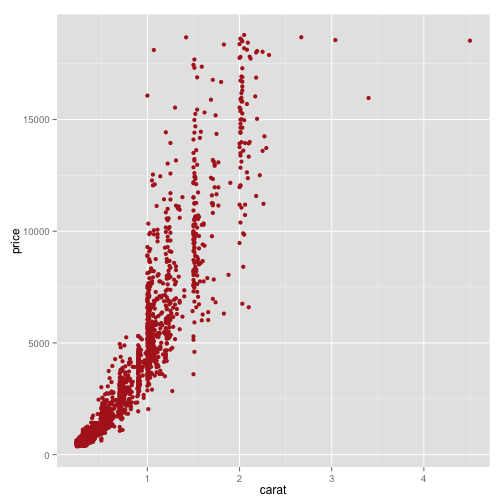
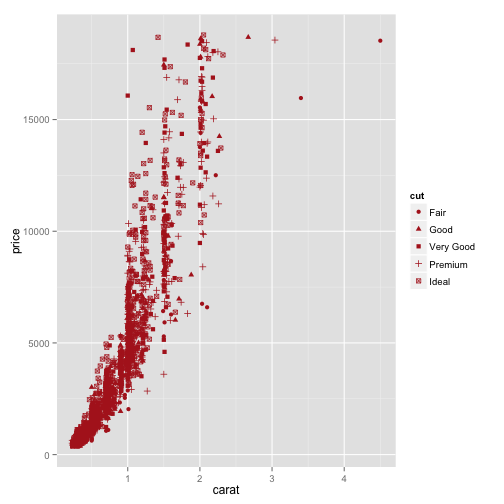
revise

diff --git a/lectures/01/index.html b/lectures/01/index.html
@@ -556,7 +556,7 @@ Narrative network of US. 2012.</p>
   </hgroup>
   <article data-timings="">
     <ul>
-<li>Embedded system is everywhere (Check RPi)</li>
+<li>嵌入裝置與雲端伺服器工作的必須 (Check Raspberry Pi/Amazon EC2)</li>
 <li>可以簡單解決的，就不要用複雜的方式。</li>
 </ul>
 
@@ -622,7 +622,7 @@ wc -l stmtn10-trimmed.txt
     <h2>資料科學實作</h2>
   </hgroup>
   <article data-timings="">
-    <p>想像一個場景：妳的公司開發了一種智慧型香水。作為一個 Data Scientist，妳要面對的資料類型：</p>
+    <p>想像一個場景：妳的公司開發了一種智慧型 XX。作為一個 Data Scientist，妳要面對的資料類型：</p>
 
 <ul>
 <li>工廠感測器 (sensors) ／銷售／實驗室產生的數值資料 (numeric data)</li>
@@ -652,7 +652,18 @@ wc -l stmtn10-trimmed.txt
 
 <slide class="" id="slide-38" style="background:;">
   <hgroup>
-    <h2>香水評論</h2>
+    <h3>先提醒：作圖比較觀察很重要</h3>
+  </hgroup>
+  <article data-timings="">
+    <p><img src="assets/fig/unnamed-chunk-1-1.png" alt="plot of chunk unnamed-chunk-1"> </p>
+
+  </article>
+  <!-- Presenter Notes -->
+</slide>
+
+<slide class="" id="slide-39" style="background:;">
+  <hgroup>
+    <h2>評論樣本觀察</h2>
   </hgroup>
   <article data-timings="">
     <pre><code>&gt; wget http://www.sensorywithr.org/wp-content/uploads/2014/06/perfumes_comments.csv
@@ -674,27 +685,34 @@ summary(comments)
   <!-- Presenter Notes -->
 </slide>
 
-<slide class="" id="slide-39" style="background:;">
+<slide class="" id="slide-40" style="background:;">
+  <hgroup>
+    <h2>進一步資料探索也取決於動機或假設是什麼</h2>
+  </hgroup>
   <article data-timings="">
     <pre><code class="r">library(FactoMineR)
 res.textual &lt;- textual(comments, num.text = 3, contingence.by = 1, sep.word = &quot;;&quot;)
 names(res.textual)
 res.textual$cont.table[,1:10]
+apply(res.textual$cont.table[,1:10], MARGIN = 2, FUN = sum)
 </code></pre>
 
   </article>
   <!-- Presenter Notes -->
 </slide>
 
-<slide class="" id="slide-40" style="background:;">
+<slide class="" id="slide-41" style="background:;">
+  <hgroup>
+    <h2>&quot;Social Listening&quot;</h2>
+  </hgroup>
   <article data-timings="">
-    <p><img src="assets/fig/unnamed-chunk-3-1.png" alt="plot of chunk unnamed-chunk-3"> </p>
+    <p><code>twitteR</code> demo</p>
 
   </article>
   <!-- Presenter Notes -->
 </slide>
 
-<slide class="" id="slide-41" style="background:;">
+<slide class="" id="slide-42" style="background:;">
   <hgroup>
     <h2>思考題</h2>
   </hgroup>
@@ -728,14 +746,15 @@ res.textual$cont.table[,1:10]
   <!-- Presenter Notes -->
 </slide>
 
-<slide class="" id="slide-42" style="background:;">
+<slide class="" id="slide-43" style="background:;">
   <hgroup>
     <h2>作業 (20150924)</h2>
   </hgroup>
   <article data-timings="">
     <ol>
-<li>from TA</li>
-<li>最好的分組方法（數學，遐想皆可）</li>
+<li>邊讀邊做 Linux tutorials (放在 CEIBA/課程網頁)</li>
+<li>TA 出的作業</li>
+<li>(bonus: 20%) 最好的分組方法（數學，遐想皆可）</li>
 </ol>
 
   </article>
@@ -970,32 +989,38 @@ res.textual$cont.table[,1:10]
     </li>
     <li>
       <a href="#" target="_self" rel='tooltip' 
-        data-slide=38 title='香水評論'>
+        data-slide=38 title='先提醒：作圖比較觀察很重要'>
          38
       </a>
     </li>
     <li>
       <a href="#" target="_self" rel='tooltip' 
-        data-slide=39 title='NA'>
+        data-slide=39 title='評論樣本觀察'>
          39
       </a>
     </li>
     <li>
       <a href="#" target="_self" rel='tooltip' 
-        data-slide=40 title='NA'>
+        data-slide=40 title='進一步資料探索也取決於動機或假設是什麼'>
          40
       </a>
     </li>
     <li>
       <a href="#" target="_self" rel='tooltip' 
-        data-slide=41 title='思考題'>
+        data-slide=41 title='&quot;Social Listening&quot;'>
          41
       </a>
     </li>
     <li>
       <a href="#" target="_self" rel='tooltip' 
-        data-slide=42 title='作業 (20150924)'>
+        data-slide=42 title='思考題'>
          42
+      </a>
+    </li>
+    <li>
+      <a href="#" target="_self" rel='tooltip' 
+        data-slide=43 title='作業 (20150924)'>
+         43
       </a>
     </li>
   </ul>

diff --git a/lectures/01/index.md b/lectures/01/index.md
@@ -293,6 +293,7 @@ Does Deep machine learning only require shallow linguistic processing ?
 ---
 ## 3 個 Why：Linux (command line tools) + R/Programming + Git
 
+
 - 事實上有許多商業軟體工具與線上服務
   * [Text analysis online](http://textanalysisonline.com/)
   * [Semantria](https://semantria.com/), [Text Analysis APIs on Mashape](https://market.mashape.com/textanalysis/textanalysis), [NLP APIs on BOSONNLP](http://bosonnlp.com/)
@@ -305,7 +306,7 @@ Does Deep machine learning only require shallow linguistic processing ?
 ---
 ## 指令列工具與 Linux
 
-- Embedded system is everywhere (Check RPi)
+- 嵌入裝置與雲端伺服器工作的必須 (Check Raspberry Pi/Amazon EC2)
 - 可以簡單解決的，就不要用複雜的方式。
 
 [Jane Andrews, The Stories Mother Nature Told Her Children](https://archive.org/details/thestoriesmother05792gut)
@@ -354,7 +355,7 @@ w3m -dump http://www.gnu.org/gnu/manifesto.html | wc
 ---
 ## 資料科學實作
 
-想像一個場景：妳的公司開發了一種智慧型香水。作為一個 Data Scientist，妳要面對的資料類型：
+想像一個場景：妳的公司開發了一種智慧型 XX。作為一個 Data Scientist，妳要面對的資料類型：
 
 * 工廠感測器 (sensors) ／銷售／實驗室產生的數值資料 (numeric data)
 * 社會感測器 (twitter, ptt, weibo) 傳回即時的產品評論文本資料 (textual data)
@@ -372,7 +373,14 @@ w3m -dump http://www.gnu.org/gnu/manifesto.html | wc
 
 
 ---
-## 香水評論
+### 先提醒：作圖比較觀察很重要
+
+![plot of chunk unnamed-chunk-1](assets/fig/unnamed-chunk-1-1.png) 
+
+
+
+---
+## 評論樣本觀察
 
 ```
 > wget http://www.sensorywithr.org/wp-content/uploads/2014/06/perfumes_comments.csv
@@ -392,6 +400,7 @@ summary(comments)
 Source: [sensorywithr](www.sensorywithr.org/chapt-4-when-products-are-depicted-by-comments/)
 
 ---
+## 進一步資料探索也取決於動機或假設是什麼
 
 
 ```r
@@ -399,13 +408,15 @@ library(FactoMineR)
 res.textual <- textual(comments, num.text = 3, contingence.by = 1, sep.word = ";")
 names(res.textual)
 res.textual$cont.table[,1:10]
+apply(res.textual$cont.table[,1:10], MARGIN = 2, FUN = sum)
 ```
 
 
+
+
 ---
-
-
-![plot of chunk unnamed-chunk-3](assets/fig/unnamed-chunk-3-1.png) 
+## "Social Listening"
+`twitteR` demo
 
 
 
@@ -433,8 +444,9 @@ res.textual$cont.table[,1:10]
 ---
 ## 作業 (20150924)
 
-1. from TA
-2. 最好的分組方法（數學，遐想皆可）
+1. 邊讀邊做 Linux tutorials (放在 CEIBA/課程網頁)
+2. TA 出的作業
+3. (bonus: 20%) 最好的分組方法（數學，遐想皆可）
 
 
 
